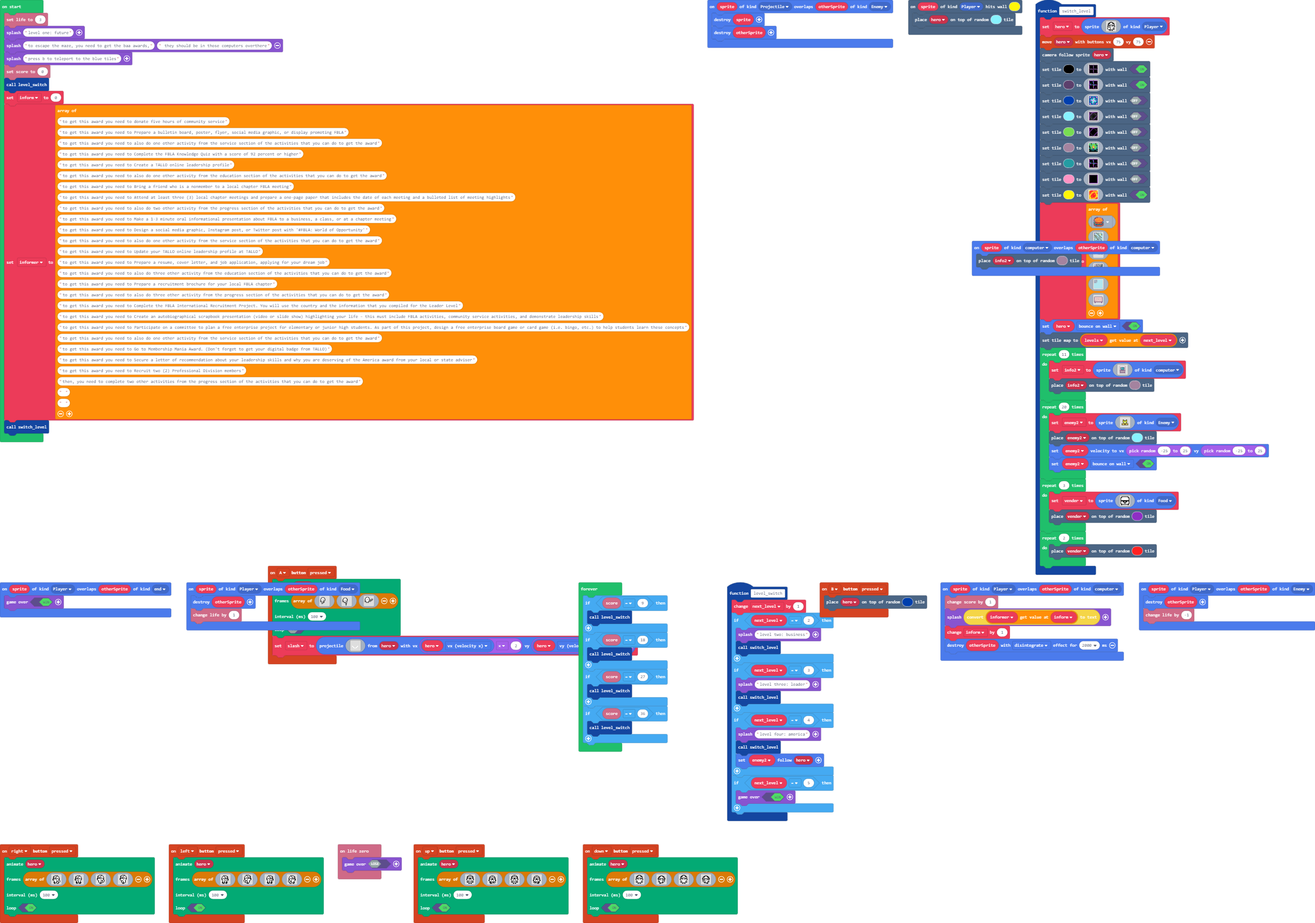
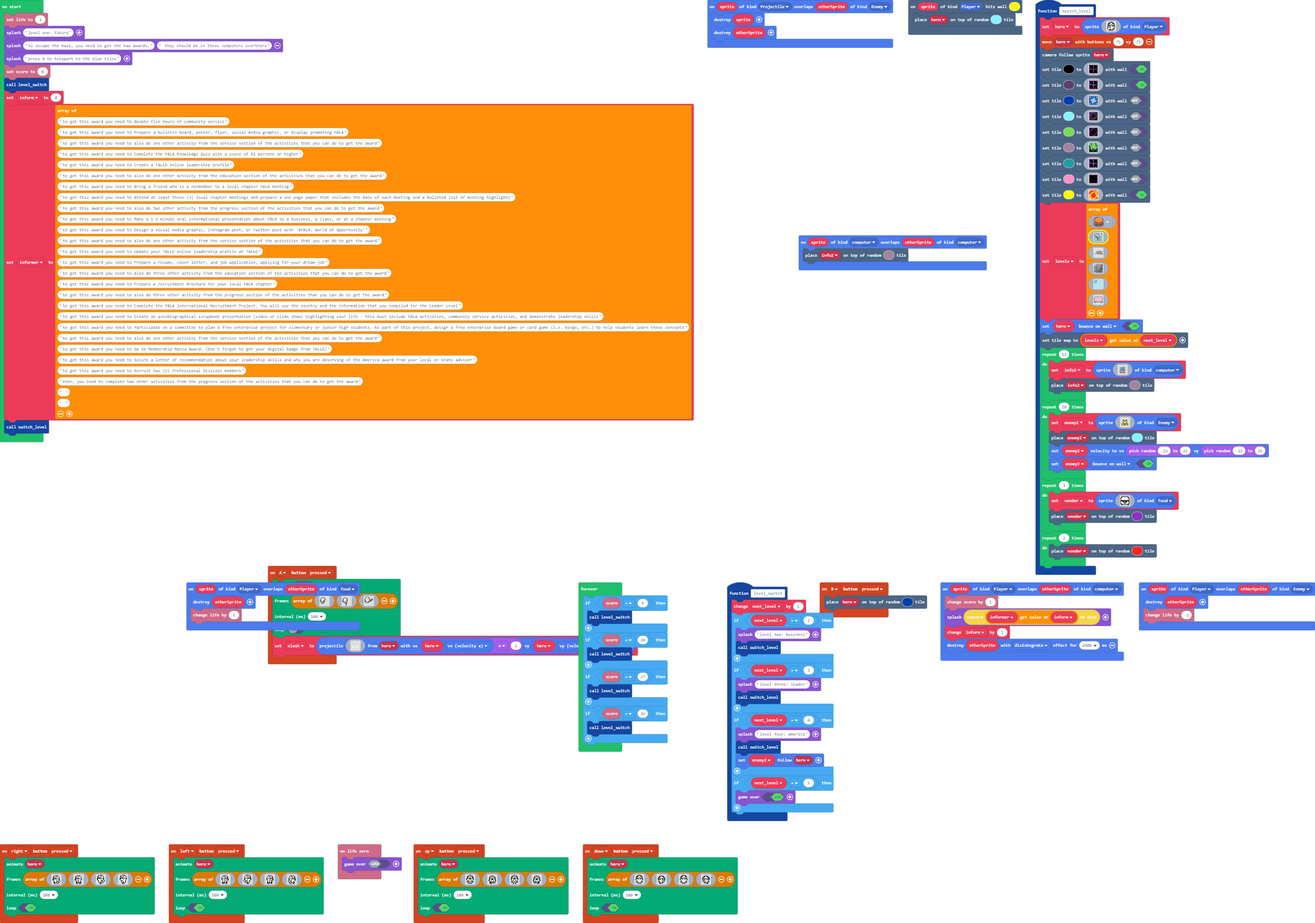
Update pxt.json, main.blocks, main.ts

Changed region(s): [[0.5869, 0.2488, 0.8958, 0.311], [0.0, 0.6221, 0.1544, 0.6843]]

diff --git a/main.ts b/main.ts
@@ -186,9 +186,6 @@ sprites.onOverlap(SpriteKind.Player, SpriteKind.Food, function (sprite, otherSpr
     otherSprite.destroy()
     info.changeLifeBy(1)
 })
-sprites.onOverlap(SpriteKind.Player, SpriteKind.end, function (sprite, otherSprite) {
-    game.over(true)
-})
 sprites.onOverlap(SpriteKind.Projectile, SpriteKind.Enemy, function (sprite, otherSprite) {
     sprite.destroy()
     otherSprite.destroy()
@@ -453,41 +450,22 @@ c c c c c c f e f c c c c c c e
 8 8 8 8 8 8 8 8 8 8 8 8 8 8 8 8 
 `, false)
     scene.setTile(9, img`
-a a a a a a a c c a a a a a a a c 
-a a a f f a c a a c a f f a a a c 
-a a f f a c f f f f c a f f a a c 
-a f f a c f f f f f f c a f f a c 
-a f a c f f f f f f f f c a f f c 
-a a c f f f f f f f f f f c a f c 
-a c f f f f f f f f f f f f c a c 
-c a f f f f f f f f f f f f a c c 
-c a f f f f f f f f f f f f a c c 
-a c f f f f f f f f f f f f c a c 
-a a c f f f f f f f f f f c a f c 
-a f a c f f f f f f f f c a f f c 
-a f f a c f f f f f f c a f f a c 
-a a f f a c f f f f c a f f a a c 
-a a a f f a c a a c a f f a a a c 
-a a a a f f a c c a f f a a a a c 
-c c c c c c c c c c c c c c c c a 
-`, false)
-    scene.setTile(10, img`
-a a a a a a a c c a a a a a a a c 
-a a a f f a c a a c a f f a a a c 
-a a f f a c f f f f c a f f a a c 
-a f f a c f f f f f f c a f f a c 
-a f a c f f f f f f f f c a f f c 
-a a c f f f f f f f f f f c a f c 
-a c f f f f f f f f f f f f c a c 
-c a f f f f f f f f f f f f a c c 
-c a f f f f f f f f f f f f a c c 
-a c f f f f f f f f f f f f c a c 
-a a c f f f f f f f f f f c a f c 
-a f a c f f f f f f f f c a f f c 
-a f f a c f f f f f f c a f f a c 
-a a f f a c f f f f c a f f a a c 
-a a a f f a c a a c a f f a a a c 
-a a a a f f a c c a f f a a a a c 
+f a a a a a a c c a a a a a a a c 
+a f f f f f c a a c f f f f f f c 
+a f f f f c a f f f c f f f f f c 
+a f f f c a f f f f f c f f f f c 
+a f f c a f f f f f f f c f f f c 
+a f c a f f f f f f f f f c f f c 
+a c a f f f f f f f f f f f c f c 
+c a f f f f f f f f f f f f f c c 
+c a f f f f f f f f f f f f c f c 
+a c f f f f f f f f f f f c a f c 
+a f c f f f f f f f f f c a f f c 
+a f f c f f f f f f f c a f f f c 
+a f f f c f f f f f c a f f f f c 
+a f f f f c f f f c a f f f f f c 
+a f f f f f c f c a f f f f f f c 
+a f f f f f f f f f f f f f f f c 
 c c c c c c c c c c c c c c c c a 
 `, false)
     scene.setTile(7, img`
@@ -525,78 +503,6 @@ f f f f f f f f f f f f f f f f
 6 6 f f 6 6 6 6 6 6 f f 6 6 6 6 
 f f f f f f f f f f f f f f f f 
 f f f f f f f f f f f f f f f f 
-`, false)
-    scene.setTile(13, img`
-f a a a a a a c c a a a a a a c 
-a f f f f f c a a c f f f f f c 
-a f f f f c a f f f c f f f f c 
-a f f f c a f f f f f c f f f c 
-a f f c a f f f f f f f c f f c 
-a f c a f f f f f f f f f c f c 
-a c a f f c f f f f f f f f c f 
-c a f f c c f f f f f f f f f c 
-c a f c c c c c c c f f f f c a 
-a c f f c c f f f f f f f c a c 
-a f c f f c f f f f f f c a f c 
-a f f c f f f f f f f c a f f c 
-a f f f c f f f f f c a f f f c 
-a f f f f c f f f c a f f f f c 
-a f f f f f c f c a f f f f f c 
-c c c c c c f c a c c c c c c a 
-`, false)
-    scene.setTile(4, img`
-f a a a a a a c c a a a a a a c 
-a f f f f f c a a c f f f f f c 
-a f f f f c a f f f c f f f f c 
-a f f f c a f f f f f c f f f c 
-a f f c a f f f f f f f c f f c 
-a f c a f f f f f f f f f c f c 
-a c a f f f f c f f f f f f c f 
-c a f f f f f c f f f f f f f c 
-c a f f f f f c f f f f f f c a 
-a c f f f f f c f f f f f c a c 
-a f c f f c c c c c f f c a f c 
-a f f c f f c c c f f c a f f c 
-a f f f c f f c f f c a f f f c 
-a f f f f c f f f c a f f f f c 
-a f f f f f c f c a f f f f f c 
-c c c c c c f c a c c c c c c a 
-`, false)
-    scene.setTile(14, img`
-f a a a a a a c c a a a a a a c 
-a f f f f f c a a c f f f f f c 
-a f f f f c a f f f c f f f f c 
-a f f f c a f f f f f c f f f c 
-a f f c a f f f f f f f c f f c 
-a f c a f f f f f f c f f c f c 
-a c a f f f f f f f c c f f c f 
-c a f f f c c c c c c c c f f c 
-c a f f f f f f f f c c f f c a 
-a c f f f f f f f f c f f c a c 
-a f c f f f f f f f f f c a f c 
-a f f c f f f f f f f c a f f c 
-a f f f c f f f f f c a f f f c 
-a f f f f c f f f c a f f f f c 
-a f f f f f c f c a f f f f f c 
-c c c c c c f c a c c c c c c a 
-`, false)
-    scene.setTile(1, img`
-f a a a a a a c c a a a a a a c 
-a f f f f f c a a c f f f f f c 
-a f f f f c a f f f c f f f f c 
-a f f f c a f f c f f c f f f c 
-a f f c a f f c c c f f c f f c 
-a f c a f f c c c c c f f c f c 
-a c a f f f f f c f f f f f c f 
-c a f f f f f f c f f f f f f c 
-c a f f f f f f c f f f f f c a 
-a c f f f f f f c f f f f c a c 
-a f c f f f f f f f f f c a f c 
-a f f c f f f f f f f c a f f c 
-a f f f c f f f f f c a f f f c 
-a f f f f c f f f c a f f f f c 
-a f f f f f c f c a f f f f f c 
-c c c c c c f c a c c c c c c a 
 `, false)
     scene.setTile(6, img`
 f a a a a a a c f a a a a a a c 
@@ -657,51 +563,51 @@ c c c c c c c c c c c c c c c c f f 7 7 2 f 9 9 9 9 9 9 9 9 9 9 9 9 9 9 9 9 9 9 
 c c c c c c c c c c c c c c c c f f 7 f f f 9 9 9 9 9 9 9 9 f f f 9 9 9 9 9 9 9 9 9 9 f f f 9 9 9 9 9 9 f f f 9 9 9 9 9 9 9 9 9 
 c c c c 8 8 8 8 8 8 c c c c c c f f 7 7 f f f 9 9 9 9 9 9 9 f f f f 9 9 9 9 9 9 9 9 9 f f f 9 f f f f 9 f f f 9 9 9 9 9 9 9 9 9 
 c c c 8 8 8 8 8 8 8 9 c c c c c f f f 7 7 f f f 9 9 9 9 9 9 f f f f f 9 9 9 9 9 9 9 9 9 9 9 9 f f f f 9 9 9 9 9 9 9 9 9 9 9 9 9 
-c c 8 8 8 8 8 8 8 9 9 9 c c c c f f f f 7 7 f f f 9 9 9 9 9 9 f f f f 9 9 9 9 9 9 9 9 9 9 f 9 9 f f 9 9 f 9 9 9 9 9 9 9 9 9 9 9 
-c c 8 8 8 8 8 8 9 9 9 9 9 c c c c f f f f 7 7 f f f f 9 9 9 9 f f f f f 9 9 9 9 9 9 9 9 9 f 9 9 f f 9 9 f 9 9 9 9 9 9 9 9 9 9 9 
-c c 8 8 8 8 8 9 9 9 9 9 9 9 c c c f f f f f 7 7 f f f f 9 9 9 9 f f f f f 9 9 9 9 9 9 9 9 f 9 9 9 9 9 9 f 9 9 9 9 9 9 9 9 9 9 9 
-c c 8 8 8 8 9 9 9 9 9 9 9 9 9 c c f f f f f f 7 7 f f f 9 9 9 9 9 f f f f f 9 9 9 9 9 9 9 f f f f f f f f 9 9 9 f f f 9 9 9 9 9 
-c c 8 8 8 3 3 3 3 9 3 3 3 3 3 9 9 9 9 9 f f f f 7 7 f f f 9 9 9 9 9 f f f f f 9 9 9 9 9 9 9 9 9 9 9 9 9 9 9 f f f f f 9 9 9 9 9 
-c c 8 8 9 3 9 9 9 9 3 9 9 9 3 9 9 9 9 9 9 f f f f 7 7 f f f f 9 9 9 9 f f f f f f 5 5 5 5 5 5 5 5 5 5 5 f f f f f f f 9 9 9 9 9 
-c c c 9 9 3 9 3 3 9 3 9 9 9 3 9 9 9 9 9 3 9 f f f f 7 7 f f f 9 9 9 9 9 f f f f f 5 2 9 9 9 9 9 9 9 9 5 f f f f f f f 9 9 9 9 9 
-c c c c 9 3 9 9 3 9 3 9 9 9 3 9 9 9 9 3 9 9 9 f f f f 7 7 f f f 9 9 9 9 9 9 9 9 9 5 5 5 5 5 5 5 5 5 9 5 9 9 9 b f f f f 9 9 9 9 
-c c c c c 3 3 3 3 9 3 3 3 3 3 9 9 9 3 9 9 9 9 9 f f f f 7 7 f f f 9 9 9 9 9 9 9 9 5 9 9 9 9 9 9 9 5 9 5 9 9 9 f f f f f 9 9 9 9 
-c c c c c c 9 9 9 9 9 9 9 9 9 9 9 3 9 9 9 9 9 9 9 f f f f 7 7 f f f 9 9 9 9 9 9 9 5 5 5 5 5 5 5 5 5 9 5 9 9 9 f f f f f 9 9 9 9 
-c c c c c c c 9 9 9 9 9 9 9 9 9 3 9 9 9 9 9 9 9 9 9 f f f f 7 7 f f f 9 9 9 9 9 9 5 9 9 9 9 9 9 9 9 9 5 9 9 f f f f f f 9 9 9 9 
-c c c c c c c c 9 9 9 9 9 9 9 3 9 9 9 9 9 9 9 9 9 9 9 f f f f 7 7 f f f 9 9 9 9 9 5 9 5 5 5 5 5 5 5 5 5 9 9 f f f f f f 9 9 9 9 
-f f f f f c c c 9 9 9 9 9 9 3 9 9 9 9 9 9 9 9 9 9 9 9 9 f f f f 7 7 f f f 9 9 9 9 5 9 5 9 9 9 9 9 9 9 5 9 9 f f f f f f 9 9 9 9 
-f f f f f f f f f 9 9 9 9 3 9 9 9 9 9 9 9 9 9 9 9 9 9 9 9 f f f f 7 7 f f f 9 9 9 5 1 5 5 5 5 5 5 5 5 5 9 9 f f f f f f f 9 9 9 
-f f f f f f f f f 9 9 9 3 9 9 9 9 9 9 9 9 9 9 9 9 9 9 9 9 9 f f f f 7 7 f f f f 9 9 9 9 9 9 9 9 9 9 9 9 9 9 9 f f f f f f 9 9 9 
-7 7 7 7 f f f f f f f f f 9 9 9 9 9 9 9 9 9 9 9 9 9 9 9 9 9 9 f f f f 7 7 f f f f 9 9 9 9 9 9 9 9 9 9 9 9 9 9 f f f f f f 9 9 9 
-7 f f 7 f f f f f f f f f f f f f f f f 9 9 9 9 9 9 9 9 9 9 9 9 f f f f 7 7 f f f f 9 9 9 9 9 9 9 9 9 9 9 9 9 f f f f f 9 9 9 9 
-7 f f 7 f f f f f f f f f f 7 f f f f f 9 9 9 9 9 9 9 9 9 9 9 9 9 f f f f 7 7 f f f 9 9 9 9 9 9 9 9 9 9 9 9 9 9 9 9 9 9 9 9 9 9 
-2 f f 7 7 7 7 7 7 7 7 7 f f 7 f f f f f f 9 9 9 9 9 9 9 9 9 9 9 9 9 f f f f 7 7 f f f 9 9 9 9 9 9 9 9 9 9 9 9 9 9 9 9 9 9 9 9 9 
-f f f f f f f f f f f 7 f f 7 f f f 9 9 9 9 9 9 9 9 9 9 9 9 9 9 9 9 9 f f f f 7 7 f f f 9 9 9 9 9 9 9 9 9 9 9 9 9 9 9 9 9 9 9 9 
-9 9 f f f f f f f f f 7 7 f 7 f f f f 9 9 9 9 9 9 9 9 9 9 9 9 9 9 9 9 9 f f f f 7 7 f f f 9 9 9 9 9 9 9 9 9 9 9 9 9 9 9 9 9 9 9 
-9 9 9 f f f f f f f f f 7 7 7 f f f f f 9 9 9 9 9 9 9 9 9 9 9 9 9 9 9 9 9 f f f f 7 7 f f f f 9 9 9 9 9 9 9 9 9 9 9 9 9 9 9 9 9 
-9 9 9 9 f f f f f f f f 7 7 7 7 7 f f f 9 9 9 9 9 9 9 9 9 9 9 9 9 9 9 9 9 9 f f f f 7 7 f f f 9 9 9 9 9 9 9 9 9 9 9 9 9 9 9 9 9 
-9 9 9 9 9 f f f f f f f f 7 f f 7 f f f f f f f f f f f f f 9 9 9 9 9 9 9 9 9 f f f f 7 7 f f f 9 9 9 9 9 9 9 9 9 9 9 9 9 9 9 9 
-9 9 9 9 9 9 f f f f f f f 7 f f 7 7 7 7 7 7 7 7 7 7 7 7 7 f f 9 9 9 9 9 9 9 9 9 f f f f 7 7 f f f 9 9 9 9 9 9 9 9 9 9 9 9 9 9 9 
-9 f f f 9 9 9 f f f f f f 7 f f f f f f f f f f f f f f f f f 9 9 9 9 9 9 9 9 9 9 f f f f 7 7 f f f f 9 9 9 9 9 9 9 9 9 9 9 9 9 
-9 f f f 9 9 9 9 f f f f f 7 f f 9 9 9 f f f f f 9 9 9 9 f f f 9 9 9 9 9 9 9 9 9 9 9 f f f f 7 7 f f f f 9 9 9 9 9 9 9 9 9 9 9 9 
-9 f f f f 9 9 9 9 f f f f 7 f f f 9 9 9 9 9 9 9 9 9 9 9 9 9 9 9 9 9 9 9 f f f f 9 9 9 f f f f 7 7 f f f f 9 9 9 9 9 9 9 9 9 9 9 
-9 f f f f 9 9 9 9 9 f f f 7 f f f 9 9 9 9 9 9 9 9 9 9 9 9 9 9 9 9 9 9 9 f f f f 9 9 9 9 f f f f 7 7 f f f f f 9 9 9 9 9 9 9 9 9 
-9 9 f f f 9 9 9 9 9 9 f f 7 f f f f 9 9 9 9 9 9 9 9 9 9 f f b 9 9 9 9 9 f f f f f 9 9 9 9 b f f f 7 7 f f f f f 9 9 9 9 9 9 9 9 
-9 9 f f f f 9 9 9 9 9 9 f 7 7 7 7 f f f f f f f f 9 9 9 f f f 9 9 9 9 9 9 f f f f 9 9 9 9 9 f f f f 7 7 f f f f f 9 9 9 9 9 9 9 
-9 9 f f f f 9 9 9 9 9 9 f f f f 7 7 7 7 7 f f f f 9 9 9 f f f f 9 9 9 9 9 9 f f f f 9 9 9 9 9 f f f f 7 7 d 8 f f f 9 9 9 9 9 9 
-9 9 9 f f f 9 9 9 9 9 9 f f f f f f f f 7 f f f f 9 9 9 f f f f 9 9 9 9 9 9 f f f f f 9 9 9 9 9 f f f f f f f f f f 9 9 9 9 9 9 
-9 9 9 f f f 9 9 9 9 9 9 f f f f f b f f 7 f f f 9 9 9 9 9 f f f f 9 9 9 9 9 9 f f f f 9 9 9 9 9 9 f f f f f f f f f 9 9 9 9 9 9 
-9 9 9 f f f f 9 9 9 f f f f f 9 9 b f f 7 f f 9 9 9 9 9 9 f f f f 9 9 9 9 9 9 9 f f b 9 9 9 9 9 9 9 f f f f f f f f 9 9 9 9 9 9 
-9 9 9 f f f f 9 9 9 f f f f f 9 f f f f 7 f f 9 9 9 9 9 9 9 f f f f 9 9 9 9 9 f f f 4 f f 9 9 9 9 9 9 f f f f f f b 9 9 9 9 9 9 
-9 9 9 9 f 4 d d 9 9 f f f f f 9 f f f f 7 f f f 9 9 9 9 9 9 f f f f 9 9 9 9 f f f 9 9 f f 9 9 9 9 9 9 9 9 9 9 9 9 9 9 9 9 9 9 9 
-9 9 9 9 f 4 f f 9 9 9 9 9 9 9 9 9 f f f 7 f f f f 9 9 9 9 9 9 f f f 9 9 9 9 f 9 9 9 f f f f 9 9 9 9 9 9 9 9 9 9 9 9 9 9 9 9 9 9 
-9 9 9 9 f e 4 f 9 9 9 9 9 9 9 9 9 9 f f 7 7 7 7 f f f 9 9 9 9 f f f 9 9 9 f f 9 f f f f f f f 9 9 9 9 9 9 9 9 9 9 9 9 9 9 9 9 9 
-9 9 9 9 f f 4 f 9 9 9 9 9 9 9 9 9 9 f f f f f 7 f f f 9 9 9 9 f f f 9 9 f f 9 9 f 9 9 f f f f 9 9 9 9 9 9 9 9 9 9 9 9 9 9 9 9 9 
-9 9 9 9 9 f 4 f 9 9 9 9 9 9 9 9 9 9 9 f f f f 7 f f f f 9 9 9 9 9 9 9 f f 9 9 f f 9 9 9 f f f f 9 9 9 9 9 9 9 9 9 9 9 9 9 9 9 9 
-9 9 9 9 9 f 4 f 9 9 9 9 9 9 9 9 9 9 9 9 f f f 7 f f f f f f 9 9 9 9 f f 9 9 f f 9 9 9 9 f f f f f 9 9 9 9 9 9 9 9 9 9 9 9 9 9 9 
-9 9 9 9 9 f 4 f f 9 9 9 9 9 9 9 9 9 9 9 9 f f 7 7 7 d f f f f 9 9 f f 9 9 f f 9 9 9 9 9 b 9 f f f 9 9 9 9 9 9 9 9 9 9 f f 9 9 9 
-9 9 9 9 9 f e 4 f 9 9 9 9 9 9 9 9 9 9 9 9 9 f f f f 8 f f f f f 9 f 9 9 f f 9 9 9 9 9 9 9 9 f f f f 9 9 9 9 9 9 9 9 f f 9 9 9 9 
-9 9 9 9 9 f f 4 f 9 9 9 9 9 9 9 9 9 9 9 9 9 9 f f f f f f f f f f f 9 f f 9 9 9 9 9 9 9 9 9 f f f f f 9 9 9 9 9 9 f f 9 9 9 9 9 
+c c 8 8 8 8 8 8 8 9 9 9 c c c c f f f f 7 7 f f f 9 9 9 9 9 9 f f f f 9 9 9 9 9 9 9 9 9 9 9 9 9 f f 9 9 9 9 9 9 9 9 9 9 9 9 9 9 
+c c 8 8 8 8 8 8 9 9 9 9 9 c c c c f f f f 7 7 f f f f 9 9 9 9 f f f f f 9 9 9 9 9 9 9 9 9 9 9 9 f f 9 9 9 9 9 9 9 9 9 9 9 9 9 9 
+c c 8 8 8 8 8 9 9 9 9 9 9 9 c c c 9 f f f f 7 7 f f f f 9 9 9 9 f f f f f 9 9 9 9 9 9 9 9 9 9 9 9 9 9 9 9 9 9 9 9 9 9 9 9 9 9 9 
+c c 8 8 8 8 9 9 9 9 9 9 9 9 9 c c 9 9 f f f f 7 7 f f f 9 9 9 9 9 f f f f f 9 5 5 5 9 9 9 9 9 9 9 9 9 9 9 9 9 9 f f f 9 9 9 9 9 
+c c 8 8 8 3 3 3 3 9 3 3 3 3 3 9 9 9 9 9 f f f f 7 f f f f 9 9 9 9 9 f f f f f 5 5 5 5 5 5 5 5 5 5 f f f f f f f f f f 9 9 9 9 9 
+c c 8 8 9 3 9 9 9 9 3 9 9 9 3 9 9 9 9 9 9 f f f 7 7 f f f f f 9 9 9 9 f f f f f 5 5 5 2 9 9 9 9 5 5 5 5 f f f f f f f 9 9 9 9 9 
+c c c 9 9 3 9 3 3 9 3 9 9 9 3 9 9 9 9 9 3 9 9 f f 7 7 f f f f 9 9 9 9 9 f f f 9 5 5 5 5 5 5 5 9 9 9 9 5 f f f f f f f 9 9 9 9 9 
+c c c c 9 3 9 9 3 9 3 9 9 9 3 9 9 9 9 3 9 9 9 f f f 7 7 f f f f 9 9 9 9 9 9 9 9 9 9 9 9 9 9 5 5 5 5 9 5 5 9 9 b f f f f 9 9 9 9 
+c c c c c 3 3 3 3 9 3 3 3 3 3 9 9 9 3 9 9 9 9 9 f f f 7 f f f f f 9 9 9 9 9 9 9 9 9 9 9 9 9 9 9 9 5 9 5 5 9 9 f f f f f 9 9 9 9 
+c c c c c c 9 9 9 9 9 9 9 9 9 9 9 3 9 9 9 9 9 9 9 f f 7 7 f f f f f 9 9 9 9 9 9 9 9 9 5 5 5 9 9 9 5 9 5 5 9 9 f f f f f 9 9 9 9 
+c c c c c c c 9 9 9 9 9 9 9 9 9 3 9 9 9 9 9 9 9 9 9 f f 7 7 f f f f f 9 9 9 9 9 9 5 5 5 5 5 5 5 5 5 9 5 9 9 f f f f f f 9 9 9 9 
+c c c c c c c c 9 9 9 9 9 9 9 3 9 9 9 9 9 9 9 9 9 9 9 f f 7 7 7 f f f f 9 9 9 9 9 5 9 9 9 9 9 9 9 9 9 5 9 9 f f f f f f 9 9 9 9 
+f f f f f c c c 9 9 9 9 9 9 3 9 9 9 9 9 9 9 9 9 9 9 9 9 f f f 7 7 7 f f f 9 9 9 9 5 9 5 5 5 5 5 5 5 5 5 9 9 f f f f f 9 9 9 9 9 
+f f f f f f f f f 9 9 9 9 3 9 9 9 9 9 9 9 9 9 9 9 9 9 9 9 f f f f 7 7 f f f 9 9 9 5 9 5 5 5 5 9 9 5 5 5 9 9 f f f f f f f 9 9 9 
+f f f f f f f f f 9 9 9 3 9 9 9 9 9 9 9 9 9 9 9 9 9 9 9 9 9 f f f f 7 7 f f f f 9 9 9 9 5 5 5 9 9 5 5 5 9 9 9 f f f f f f 9 9 9 
+7 7 7 7 f f f f f f f f f 9 9 9 9 9 9 9 9 9 9 9 9 9 9 9 9 9 9 f f f f 7 7 f f f f 9 9 9 9 9 9 9 9 5 5 5 9 9 9 f f f f f f 9 9 9 
+7 f f 7 f f f f f f 7 7 f f f f f f f f 9 9 9 9 9 9 9 9 9 9 9 9 f f f f 7 7 f f f f 9 9 9 9 9 9 9 9 9 9 9 9 9 f f f f f 9 9 9 9 
+7 f f 7 f f f f f f f 7 f f 7 f f f f f 9 9 9 9 9 9 9 9 9 9 9 9 9 f f f f 7 f f f f 9 9 9 9 9 9 9 9 9 9 9 9 9 9 9 9 9 9 9 9 9 9 
+2 f f 7 7 7 7 7 7 7 7 7 f f 7 f f f f f f 9 9 9 9 9 9 9 9 9 9 9 9 9 f f f 7 7 f f f f 9 9 9 9 9 9 9 9 9 9 9 9 9 9 9 9 9 9 9 9 9 
+f f f f f f f f f f 7 7 f f 7 f f f 9 9 9 9 9 9 9 9 9 9 9 9 9 9 9 9 9 9 f f 7 7 f f f f 9 9 9 9 9 9 9 9 9 9 9 9 9 9 9 9 9 9 9 9 
+9 9 f f f f f f f f f 7 7 f 7 f f f f 9 9 9 9 9 9 9 9 9 9 9 9 9 9 9 9 9 9 f f 7 7 f f f f 9 9 9 9 9 9 9 9 9 9 9 9 9 9 9 9 9 9 9 
+9 9 9 f f f 7 f f f f f 7 7 7 f f f f f 9 9 9 9 9 9 9 9 9 9 9 9 9 9 9 9 9 f f f 7 7 f f f f f 9 9 9 9 9 9 9 9 9 9 9 9 9 9 9 9 9 
+9 9 9 9 f f 7 7 f f f f 7 7 7 7 7 f f f 9 9 9 9 9 9 9 9 9 9 9 9 9 9 9 9 9 9 f f f 7 7 f f f f 9 9 9 9 9 9 9 9 9 9 9 9 9 9 9 9 9 
+9 9 9 9 9 f f 7 7 f f f f 7 f f 7 f f f f f f f f f f f f f 9 9 9 9 9 9 9 9 9 f f f 7 7 f f f f 9 9 9 9 9 9 9 9 9 9 9 9 9 9 9 9 
+9 9 9 9 9 9 f f 7 f f f f 7 f f 7 7 7 7 7 7 7 7 7 7 7 7 7 f f 9 9 9 9 9 9 9 9 9 f f f 7 7 f f f f 9 9 9 9 9 9 9 9 9 9 9 9 9 9 9 
+9 f f f 9 9 9 f 7 7 f f f 7 f f f f f f f f f f f f f f f f f 9 9 9 9 9 9 9 9 9 9 f f f 7 7 f f f f f 9 9 9 9 9 9 9 9 9 9 9 9 9 
+9 f f f 9 9 9 f f 7 7 f f 7 f f f f f f f f f f f f f f f f f 9 9 9 9 9 9 9 9 9 9 9 f f f 7 7 f f f f f 9 9 9 9 9 9 9 9 9 9 9 9 
+9 f f f f 9 9 9 f f 7 7 7 7 f f f f f f f f f f f f f f f f 9 9 9 9 9 9 f f f f 9 9 9 f f f 7 7 f f f f f 9 9 9 9 9 9 9 9 9 9 9 
+9 f f f f 9 9 9 9 f f f 7 7 f f f f f f f f f f f f f f f f 9 9 9 9 9 9 f f f f 9 9 9 9 f f f 7 7 7 f f f f f 9 9 9 9 9 9 9 9 9 
+9 9 f f f 9 9 9 9 9 f f f 7 f f f f f f f f f f f f f f f f b 9 9 9 9 9 f f f f f 9 9 9 9 b f f f 7 7 7 f f f f 9 9 9 9 9 9 9 9 
+9 9 f f f f 9 9 9 9 9 f f 7 7 7 7 f f f f f f f f f f f f f f 9 9 9 9 9 9 f f f f 9 9 9 9 9 9 f f f f 7 7 f f f f 9 9 9 9 9 9 9 
+9 9 f f f f 9 9 9 9 9 9 f f f f 7 7 7 7 f f f f f f f f f f f f 9 9 9 9 9 9 f f f f 9 9 9 9 9 9 f f f f 7 7 8 f f f 9 9 9 9 9 9 
+9 9 9 f f f 9 9 9 9 9 9 f f f f f f f 7 f f f f f f f f f f f f 9 9 9 9 9 9 f f f f f 9 9 9 9 9 9 f f f f f f f f f 9 9 9 9 9 9 
+9 9 9 f f f 9 9 9 9 9 9 f f f f f b f 7 7 f f f f f f f f f f f f 9 9 9 9 9 9 f f f f 9 9 9 9 9 9 9 f f f f f f f f 9 9 9 9 9 9 
+9 9 9 f f f f 9 9 9 f f f f f 9 9 b f f 7 f f f f f f f f f f f f 9 9 9 9 9 9 9 f f b 9 9 9 9 9 9 9 9 9 f f f f f f 9 9 9 9 9 9 
+9 9 9 f f f f 9 9 9 f f f f f 9 f f f f 7 7 f f f f f f f f f f f f 9 9 9 9 9 f f f 9 f f 9 9 9 9 9 9 9 f f f f f b 9 9 9 9 9 9 
+9 9 9 9 f 9 9 9 9 9 f f f f f 9 f f f f f 7 f f f f f f f f f f f f 9 9 9 9 f f f 9 9 f f 9 9 9 9 9 9 9 9 9 9 9 9 9 9 9 9 9 9 9 
+9 9 9 9 f 9 f f 9 9 9 9 9 9 9 9 9 f f f f 7 7 f f f f f f f f f f f 9 9 9 9 f 9 9 9 f f f f 9 9 9 9 9 9 9 9 9 9 9 9 9 9 9 9 9 9 
+9 9 9 9 f 9 9 f 9 9 9 9 9 9 9 9 9 9 f f f f 7 7 f f f f f f f f f f 9 9 9 f f 9 f f f f f f f 9 9 9 9 9 9 9 9 9 9 9 9 9 9 9 9 9 
+9 9 9 9 f f 9 f 9 9 9 9 9 9 9 9 9 9 f f f f f 7 f f f f f f f f f f 9 9 f f 9 9 f 9 9 f f f f 9 9 9 9 9 9 9 9 9 9 9 9 9 9 9 9 9 
+9 9 9 9 9 f 9 f 9 9 9 9 9 9 9 9 9 9 9 f f f f 7 7 f f f f f f f f f 9 f f 9 9 f f 9 9 9 f f f f 9 9 9 9 9 9 9 9 9 9 9 9 9 9 9 9 
+9 9 9 9 9 f 9 f 9 9 9 9 9 9 9 9 9 9 9 9 f f f f 7 7 f f f f f f f f f f 9 9 f f 9 9 9 9 f f f f f 9 9 9 9 9 9 9 9 9 9 9 9 9 9 9 
+9 9 9 9 9 f 9 f f 9 9 9 9 9 9 9 9 9 9 9 9 f f f f 7 7 f f f f f f f f 9 9 f f 9 9 9 9 9 b 9 f f f 9 9 9 9 9 9 9 9 9 9 f f 9 9 9 
+9 9 9 9 9 f 9 9 f 9 9 9 9 9 9 9 9 9 9 9 9 9 f f f f 8 f f f f f f f 9 9 f f 9 9 9 9 9 9 9 9 f f f f 9 9 9 9 9 9 9 9 f f 9 9 9 9 
+9 9 9 9 9 f f 9 f 9 9 9 9 9 9 9 9 9 9 9 9 9 9 f f f f f f f f f f f 9 f f 9 9 9 9 9 9 9 9 9 f f f f f 9 9 9 9 9 9 f f 9 9 9 9 9 
 9 9 9 9 9 9 f b f 9 9 9 9 9 9 9 9 9 9 9 9 9 9 9 f f f f f f f f f 9 9 f 9 9 9 9 9 9 9 9 9 9 9 f f f f f 9 9 9 9 9 f 9 9 9 9 9 9 
 9 f f f f 9 f f f 9 9 9 9 9 9 9 9 9 9 9 9 9 9 9 9 f f f f f f f f 9 f f 9 9 9 9 f f f f 9 9 9 9 f f f f f 9 9 9 9 9 9 9 9 9 9 9 
 9 f f f f 9 9 9 9 9 9 9 9 9 9 9 9 9 9 9 9 9 9 9 f f f f f f f f 9 9 f f f 9 9 9 f f f f f 9 9 9 9 f f f f f 9 9 9 9 9 9 9 9 9 9 
@@ -714,73 +620,73 @@ f f f f f f f f f f f 7 f f 7 f f f 9 9 9 9 9 9 9 9 9 9 9 9 9 9 9 9 9 f f f f 7 
 f f 9 9 9 f f f f 9 9 9 f f f f f f 9 9 9 9 9 9 9 9 9 9 9 f f f f f 9 9 9 9 9 9 9 9 9 9 9 9 9 9 9 9 9 9 9 f f f f f f 9 9 9 9 9 
 9 f f 9 9 f f f f 9 9 9 f f f 9 9 9 9 9 9 9 9 9 9 9 9 f f f f f f f 9 9 9 9 9 9 9 9 9 9 9 9 9 9 f f f f f f f f f f f 9 9 9 9 9 
 9 9 f 9 9 9 f f f f 9 9 9 9 9 9 9 9 9 9 9 f f f f f f f f f f f f f 9 f f f f f f f f f f f f f f f f f f f f f 9 9 9 9 9 9 9 9 
-9 9 f 9 9 9 f f f f f 9 9 9 9 9 9 9 9 9 9 f f f f f f f f f f 9 9 f 9 f f f f f f f f f f f f f f f f f f f f 9 9 9 9 9 f f 9 9 
+9 9 9 9 9 9 f f f f f 9 9 9 9 9 9 9 9 9 9 f f f f f f f f f f 9 9 f 9 f f f f f f f f f f f f f f f f f f f f 9 9 9 9 9 f f 9 9 
 9 9 f 9 9 9 9 f f f f f 9 9 9 9 9 9 9 9 9 f f f f f f f f 9 9 9 9 f 9 f f f f f f f f f f f f f f f 9 9 9 9 9 9 9 9 9 9 9 f f 9 
 9 9 f 9 9 9 9 9 f f f f 9 9 9 9 9 9 9 9 9 f f f 9 9 9 9 9 9 9 9 9 9 9 9 9 9 9 9 9 9 9 9 9 9 9 9 9 9 9 9 9 9 9 9 9 9 9 9 9 9 f f 
 `, img`
-c d d d d d d c c d d d d d d c f f f f f f f f f f f f f f f f a a a f 9 9 9 9 
-d a a a a a a a a a a a a c c c f a a a b f b a f f b a a a f f a f b f 9 9 9 9 
-d a a a a a a a d c c c a c 9 9 f a a f f f f a a f f f f a f f a f f f f f 9 9 
-d a a a a a a a d c a a a c 9 9 f f a a f f f f a f b a a a f a a f 5 5 5 f 9 9 
-d a a a a a a a d c 8 c c c 9 9 f f f a f f a a a f f f f a f f a a a a 5 f f f 
-d a a a a a a a d c c c c c c c f f a a f a a f f f b a a a f f f a f a 5 5 5 f 
-2 a a a a a a a a a a a a a a a a a a a a a f f b f f a f f f b a a f a a a 5 5 
-a a a a a a a c c c c c c c c c f f f a f a a a a f f a f c f f f a f 5 5 a a 5 
-b d d d d d a c b d d d d d d c f f f a f f a a f f a a f f f a a a f f 5 5 a 2 
-d a a a a a a c d b c c c c c c f f f a f f a a a a a a a a a a f a a f f 5 5 5 
-d a c c c c c c d a c c 9 9 c c f a a a f f a f a a a a f f a f f f a a f f f f 
-d a a c 9 9 9 c d a c c 9 9 c c f a f f f f a f f a f a a f a f c f f a a a f c 
-c c a c 9 9 9 c d a a c 9 9 c b a a f f f a a f b a f a a f a f f f f f f a f c 
-c c a c c c c c d c a c c c c c f f f f f a f f f f a a f f a a a a b f f b f c 
-c c a a a a a a a a a a a a a a a a a a f a b f f b a f f f f a a f f f f f f c 
+c d d d d d d c c d d d d d d c f f f f f f f f f f f f f f f f 1 1 1 f 9 9 9 9 
+d 1 1 1 1 1 1 1 1 1 1 1 1 c c c f 1 1 1 b f b 1 f f b 1 1 1 f f 1 f b f 9 9 9 9 
+d 1 1 1 1 1 1 1 d c c c 1 c 9 9 f 1 1 f f f f 1 1 f f f f 1 f f 1 f f f f f 9 9 
+d 1 1 1 1 1 1 1 d c 1 1 1 c 9 9 f f 1 1 f f f f 1 f b 1 1 1 f 1 1 f 5 5 5 f 9 9 
+d 1 1 1 1 1 1 1 d c 8 c c c 9 9 f f f 1 f f 1 1 1 f f f f 1 f f 1 1 1 1 5 f f f 
+d 1 1 1 1 1 1 1 d c c c c c c c f f 1 1 f 1 1 f f f b 1 1 1 f f f 1 f 1 5 5 5 f 
+2 1 1 1 1 1 1 1 1 1 1 1 1 1 1 1 1 1 1 1 1 1 f f b f f 1 f f f b 1 1 f 1 1 1 5 5 
+1 1 1 1 1 1 1 c c c c c c c c c f f f 1 f 1 1 1 1 f f 1 f c f f f 1 f 5 5 1 1 5 
+b d d d d d 1 c b d d d d d d c f f f 1 f f 1 1 f f 1 1 f f f 1 1 1 f f 5 5 1 2 
+d 1 1 1 1 1 1 c d b c c c c c c f f f 1 f f 1 1 1 1 1 1 1 1 1 1 f 1 1 f f 5 5 5 
+d 1 c c c c c c d 1 c c 9 9 c c f 1 1 1 f f 1 f 1 1 1 1 f f 1 f f f 1 1 f f f f 
+d 1 1 c 9 9 9 c d 1 c c 9 9 c c f 1 f f f f 1 f f 1 f 1 1 f 1 f c f f 1 1 1 f c 
+c c 1 c 9 9 9 c d 1 1 c 9 9 c b 1 1 f f f 1 1 f b 1 f 1 1 f 1 f f f f f f 1 f c 
+c c 1 c c c c c d c 1 c c c c c f f f f f 1 f f f f 1 1 f f 1 1 1 1 b f f b f c 
+c c 1 1 1 1 1 1 1 1 1 1 1 1 1 1 1 1 1 a f 1 b f f b 1 f f f f 1 1 f f f f f f c 
 `, img`
-3 d d d d d d 3 3 d d d d d d 3 f f f f f f f f f f f f f f f f a a a f f a a a a f f f f f f f 
-d a a a a a a a a a a a a f f 3 f a a a b f b a f f b a a a f f a f a a f a f f a f f f f 2 f f 
-d a 8 8 8 8 8 3 d f f f a f f 3 f a a f f f f a a f f f f a f f a f f b f a f f a f f f f 6 f f 
-d a 8 8 8 8 8 3 d f a a a f f 3 f f a a f f f f a f b a a a f a a f f f f a b f a f f f f 6 f f 
-d a 8 8 8 8 8 3 d f 8 f f f f 3 f f f a f f a a a f f f f a f f a a a a f f f f a f f f 6 6 f f 
-d a 8 8 8 8 8 3 d f f f f f f 3 f f a a f a a f f f b a a a f f f a f a f f f f a f f 6 6 f f f 
-d a a a a a a a a a a a a a a a a a a a a a f f a f f a f f f b a a f a a a f f a f f 6 f f f f 
-3 3 3 3 3 3 a a 3 3 3 3 3 3 3 a f f f a f a a a a f f a f f f f f a f f f a a a a f f 6 f f f f 
-3 d d d d d a 3 3 d d d d d d 3 f f f a f f a a f f a a f f f a a a f f f f a f f f f 6 6 6 f f 
-d a a a a a a 3 d a f f f f f 3 f f f a f f a a a a a a a a a a f a f f f f f f f f f f f 6 f f 
-d a f f f f f 3 d a f f f f f 3 f a a a f f a f a a a a f f a f f a a a a a f f f f f f f 6 6 f 
-d a a f f f f 3 d a f f f f f 3 f a f f f f a f f a f a a f a f f f f f a a f f f f f f f f 6 f 
-d f a f f f f 3 d a a f f f b a a a f f f a a f a a f a a f a f f f f f f a f f f f f 6 6 6 6 f 
-d f a f f f f 3 d 8 a f f f 6 6 6 6 f f f a f f f f f a f f a a a a b f f b f f f 6 6 6 f f f f 
-d f a a a a a a a a a 4 a a a a a a a b f a b f f b a a f f f 4 a f f f f f f f 6 6 f f f f f f 
-f f f f f f f f f f f 6 f f f f f f f f f f f f f f f f f f f 6 f f f f f f 6 6 6 f f f f f f f 
-f f f f f f f f f f f 6 f f f f f f f f f a a f f f a a f a f 6 f f f 6 6 6 6 f f f f f b a a f 
-f f f f f f f f f f f 6 f f f f f f f f a a f f f a a f f a f 6 f f 6 6 f f f f b a a a a f f f 
-a a a a a a a a a a a 6 a a a a a a a a a f f f a a f f a a f 6 f 8 6 f f f 6 a a f f f f f f f 
-f a f f f f f f f f f 6 f f f f f f a a a f f a a f f a a f f a f f f f b a 6 f f f f f f f f f 
-f a a f f f f f f f f 6 f f f f f f f a f f a a a a a a b f f a f f f a a f 6 f f f f f f f f f 
-f f a f f f b a a a a a a a f f f f f a f f a f f f f a a f f a 6 6 a a f f 6 f f f f f f f f f 
-f f a f f f f f f f f f f f f f f f f a f f a f f f f a a f f a f f f f f f 6 f f f f f f a f f 
-f f a a f f 9 9 9 f a b f f f f f f f a f a a a f f a a f f a b f f f f f f 9 f f f f f f 6 f f 
-f f f a a 9 9 9 9 f f a f f f a f f f a f f f f f a a f f f a f f f f f f f 9 f f f f f f 6 f f 
-f f f f a f 9 9 9 9 f a b f f b a f f a f f a a a a f f f f a f f f f f f f b 9 f f f f f 6 f f 
-f f a a a f f 9 9 9 f f a f f f a a f a f f a f f f f f f a b f f f f f f f f 9 f f f f f 6 f f 
-f a a f a a f f 9 9 9 f a b f f f a f a f f a f f f a a a b f f f f f f f f f b 9 f f f f 6 f f 
-f f f f a a a f f 9 9 f f a 6 6 6 6 6 6 a a a f a a b f f f f f f f f f f f f f 9 f f f f 8 f f 
-f f f f a f a a f 9 9 9 f a f f f f f f f f a a b f f f f f f f f f f f f f f f 9 b f f f 8 f f 
-f f f a a f f a f f 9 9 f b a f f f f f f f b f f f f f f f f f f f f a a a 6 f f 9 f f f f f f 
-f f a a f f f a a f f f f f a a f f f f f a a f f f f f f f f f f a a 6 f f 6 f f 9 b f f f f f 
-f f a f f f f f a a f f f f f f f f f 6 a a f f f f f f f a a a a 6 f f f f 6 f f f 9 f f f f f 
-f a a a a f f f f a b f f f f f f a a a b f f f f f a a a 6 f f f f f f f f 6 f f f 9 b f f f f 
-f a f f a a f f f f f f f a f f f f f f f f f f a a 6 f f f f f f f f f f f 6 f a f f 9 f f f f 
-f f f f f a a a f f f f f a f f f f f f f f a a 6 f f f f f f f f f f f f f 6 6 a f f 9 6 6 6 6 
-f b a a f f f a a a f f a 6 6 6 6 6 6 6 a 6 6 f f f f f f f f f f f f f f f 6 a f f f f f f f 6 
-f f f a a f f f f a f f a f f f f f a a f f f f f f f f f f b f f f f f f 6 a f f f f f f f f 6 
-f f f f a a a a a a f f a f f f f f f f f f f f f f f f f a a f f f f f 6 a f f f f f f f f a a 
-f f f f a a f f f a f f a f f f f f f f f f f f f f f a a a f f f f f f 9 f f f f f f f f f a f 
-f f f a a f f f f 6 f f f f f f f a a 6 6 6 6 6 6 f a a f f f f f f f f 9 f f f f f b a a a b f 
-f f f a f f f f f 6 f f f f f f a a f f f f f f 6 6 6 f f f f f f f f a 6 6 f f f f a f f f f f 
-f f f f f f f f f 6 f f f f a a a f f f f f f f a a f f f f f f f f a a f 6 6 6 f f a f f f f f 
-f f f f f f f f f 6 f a a a a f f f f f f f a a a f f f f f f f f 6 a f f f f 6 6 a b f f f f f 
-f f f f 5 5 5 5 a a a a f f f f f f f f a a a f f f f f f f f f 6 a f f f f b a f f f f f f f f 
-f f 5 5 5 a a a a 5 f f f f f f f f f a a f f f f f f f f f f f a f f f f f a 6 f f f f f f f f 
-f f 5 2 a a 5 5 5 5 f f f f f f f f b a f f f f f f f f f f f f b f f f f f f f f f f f f f f f 
+3 d d d d d d 3 3 d d d d d d 3 f f f f f f f f f f f f f f f f 1 1 1 f f 1 1 1 1 f f f f f f f 
+d 1 1 1 1 1 1 1 1 1 1 1 1 f f 3 f 1 1 1 b f b 1 f f b 1 1 1 f f 1 f 1 1 f 1 f f 1 f f f f 2 f f 
+d 1 8 8 8 8 8 3 d f f f 1 f f 3 f 1 1 f f f f 1 1 f f f f 1 f f 1 f f b f 1 f f 1 f f f f 6 f f 
+d 1 8 8 8 8 8 3 d f 1 1 1 f f 3 f f 1 1 f f f f 1 f b 1 1 1 f 1 1 f f f f 1 b f 1 f f f f 6 f f 
+d 1 8 8 8 8 8 3 d f 8 f f f f 3 f f f 1 f f 1 1 1 f f f f 1 f f 1 1 1 1 f f f f 1 f f f 6 6 f f 
+d 1 8 8 8 8 8 3 d f f f f f f 3 f f 1 1 f 1 1 f f f b 1 1 1 f f f 1 f 1 f f f f 1 f f 6 6 f f f 
+d 1 1 1 1 1 1 1 1 1 1 1 1 1 1 1 1 1 1 1 1 1 f f 1 f f 1 f f f b 1 1 f 1 1 1 f f 1 f f 6 f f f f 
+3 3 3 3 3 3 1 a 3 3 3 3 3 3 3 a f f f 1 f 1 1 1 1 f f 1 f f f f f 1 f f f 1 1 1 1 f f 6 f f f f 
+3 d d d d d 1 3 3 d d d d d d 3 f f f 1 f f 1 1 f f 1 1 f f f 1 1 1 f f f f 1 f f f f 6 6 6 f f 
+d 1 1 1 1 1 1 3 d 1 f f f f f 3 f f f 1 f f 1 1 1 1 1 1 1 1 1 1 f 1 f f f f f f f f f f f 6 f f 
+d 1 f f f f f 3 d 1 f f f f f 3 f 1 1 1 f f 1 f 1 1 1 1 f f 1 f f 1 1 1 1 1 f f f f f f f 6 6 f 
+d 1 1 f f f f 3 d 1 f f f f f 3 f 1 f f f f 1 f f 1 f 1 1 f 1 f f f f f 1 1 f f f f f f f f 6 f 
+d f 1 f f f f 3 d 1 1 f f f b 1 1 1 f f f 1 1 f 1 1 f 1 1 f 1 f f f f f f 1 f f f f f 6 6 6 6 f 
+d f 1 f f f f 3 d 8 1 f f f 6 6 6 6 f f f 1 f f f f f 1 f f 1 1 1 1 b f f b f f f 6 6 6 f f f f 
+d f 1 1 1 1 1 1 1 1 1 1 1 1 1 1 1 1 1 b f 1 b f f b 1 1 f f f 1 1 f f f f f f f 6 6 f f f f f f 
+f f f f f f f f f f f 6 f f f f f f f f f f f f f f f f f f f 1 f f f f f f 6 6 6 f f f f f f f 
+f f f f f f f f f f f 6 f f f f f f f f f 1 1 f f f 1 1 f 1 f 1 f f f 6 6 6 6 f f f f f b 1 1 f 
+f f f f f f f f f f f 6 f f f f f f f f 1 1 f f f 1 1 f f 1 f 1 f f 6 6 f f f f b 1 1 1 1 f f f 
+1 1 1 1 1 1 1 1 1 1 1 6 1 1 1 1 1 1 1 1 1 f f f 1 1 f f 1 1 f 1 f 8 6 f f f 6 1 1 f f f f f f f 
+f 1 f f f f f f f f f 6 f f f f f f 1 1 1 f f 1 1 f f 1 1 f f 1 f f f f b 1 6 f f f f f f f f f 
+f 1 1 f f f f f f f f 6 f f f f f f f 1 f f 1 1 1 1 1 1 b f f 1 f f f 1 1 f 6 f f f f f f f f f 
+f f 1 f f f b 1 1 1 1 1 1 1 f f f f f 1 f f 1 f f f f 1 1 f f 1 6 6 1 1 f f 6 f f f f f f f f f 
+f f 1 f f f f f f f f f f f f f f f f 1 f f 1 f f f f 1 1 f f 1 f f f f f f 6 f f f f f f a f f 
+f f 1 1 f f 9 9 9 f 1 b f f f f f f f 1 f 1 1 1 f f 1 1 f f 1 b f f f f f f 9 f f f f f f 6 f f 
+f f f 1 1 9 9 9 9 f f 1 f f f 1 f f f 1 f f f f f 1 1 f f f 1 f f f f f f f 9 f f f f f f 6 f f 
+f f f f 1 f 9 9 9 9 f 1 b f f b 1 f f 1 f f 1 1 1 1 f f f f 1 f f f f f f f b 9 f f f f f 6 f f 
+f f 1 1 1 f f 9 9 9 f f 1 f f f 1 1 f 1 f f 1 f f f f f f 1 b f f f f f f f f 9 f f f f f 6 f f 
+f 1 1 f 1 1 f f 9 9 9 f 1 b f f f 1 f 1 f f 1 f f f 1 1 1 b f f f f f f f f f b 9 f f f f 6 f f 
+f f f f 1 1 1 f f 9 9 f f 1 6 6 6 6 6 6 1 1 1 f 1 1 b f f f f f f f f f f f f f 9 f f f f 8 f f 
+f f f f 1 f 1 1 f 9 9 9 f 1 f f f f f f f f 1 1 b f f f f f f f f f f f f f f f 9 b f f f 8 f f 
+f f f 1 1 f f 1 f f 9 9 f b 1 f f f f f f f b f f f f f f f f f f f f 1 1 1 6 f f 9 f f f f f f 
+f f 1 1 f f f 1 1 f f f f f 1 1 f f f f f 1 1 f f f f f f f f f f 1 1 6 f f 6 f f 9 b f f f f f 
+f f 1 f f f f f 1 1 f f f f f f f f f 6 1 1 f f f f f f f 1 1 1 1 6 f f f f 6 f f f 9 f f f f f 
+f 1 1 1 1 f f f f 1 b f f f f f f 1 1 1 b f f f f f 1 1 1 6 f f f f f f f f 6 f f f 9 b f f f f 
+f 1 f f 1 1 f f f f f f f 1 f f f f f f f f f f 1 1 6 f f f f f f f f f f f 6 f 1 f f 9 f f f f 
+f f f f f 1 1 1 f f f f f 1 f f f f f f f f 1 1 6 f f f f f f f f f f f f f 6 6 1 f f 9 6 6 6 6 
+f b 1 1 f f f 1 1 1 f f 1 6 6 6 6 6 6 6 1 6 6 f f f f f f f f f f f f f f f 6 1 f f f f f f f 6 
+f f f 1 1 f f f f 1 f f 1 f f f f f 1 1 f f f f f f f f f f b f f f f f f 6 1 f f f f f f f f 6 
+f f f f 1 1 1 1 1 1 f f 1 f f f f f f f f f f f f f f f f 1 1 f f f f f 6 1 f f f f f f f f 1 1 
+f f f f 1 1 f f f 1 f f 1 f f f f f f f f f f f f f f 1 1 1 f f f f f f 9 f f f f f f f f f 1 f 
+f f f 1 1 f f f f 6 f f f f f f f 1 1 6 6 6 6 6 6 f 1 1 f f f f f f f f 9 f f f f f b 1 1 1 b f 
+f f f 1 f f f f f 6 f f f f f f 1 1 f f f f f f 6 6 6 f f f f f f f f 1 6 6 f f f f 1 f f f f f 
+f f f f f f f f f 6 f f f f 1 1 1 f f f f f f f 1 1 f f f f f f f f 1 1 f 6 6 6 f f 1 f f f f f 
+f f f f f f f f f 6 f 1 1 1 1 f f f f f f f 1 1 1 f f f f f f f f 6 1 f f f f 6 6 1 b f f f f f 
+f f f f 5 5 5 5 1 1 1 1 f f f f f f f f 1 1 1 f f f f f f f f f 6 1 f f f f b 1 f f f f f f f f 
+f f 5 5 5 1 1 1 1 5 f f f f f f f f f 1 1 f f f f f f f f f f f 1 f f f f f 1 6 f f f f f f f f 
+f f 5 2 1 1 5 5 5 5 f f f f f f f f b 1 f f f f f f f f f f f f b f f f f f f f f f f f f f f f 
 f f 5 5 5 5 5 f f f f f f f f f f f f f f f f f f f f f f f f f f f f f f f f f f f f f f f 8 2 
 `, img`
 8 8 c 9 c 9 c c 9 9 9 9 c c c c 9 9 c c c c c 9 9 9 9 9 9 9 9 9 9 9 9 9 9 9 9 9 9 9 9 9 9 9 9 9 9 9 9 9 9 9 9 9 9 9 9 9 9 9 9 9 
@@ -1036,6 +942,9 @@ controller.up.onEvent(ControllerButtonEvent.Pressed, function () {
 })
 info.onLifeZero(function () {
     game.over(false)
+})
+sprites.onOverlap(SpriteKind.computer, SpriteKind.computer, function (sprite, otherSprite) {
+    scene.placeOnRandomTile(info2, 11)
 })
 let vender: Sprite = null
 let info2: Sprite = null
